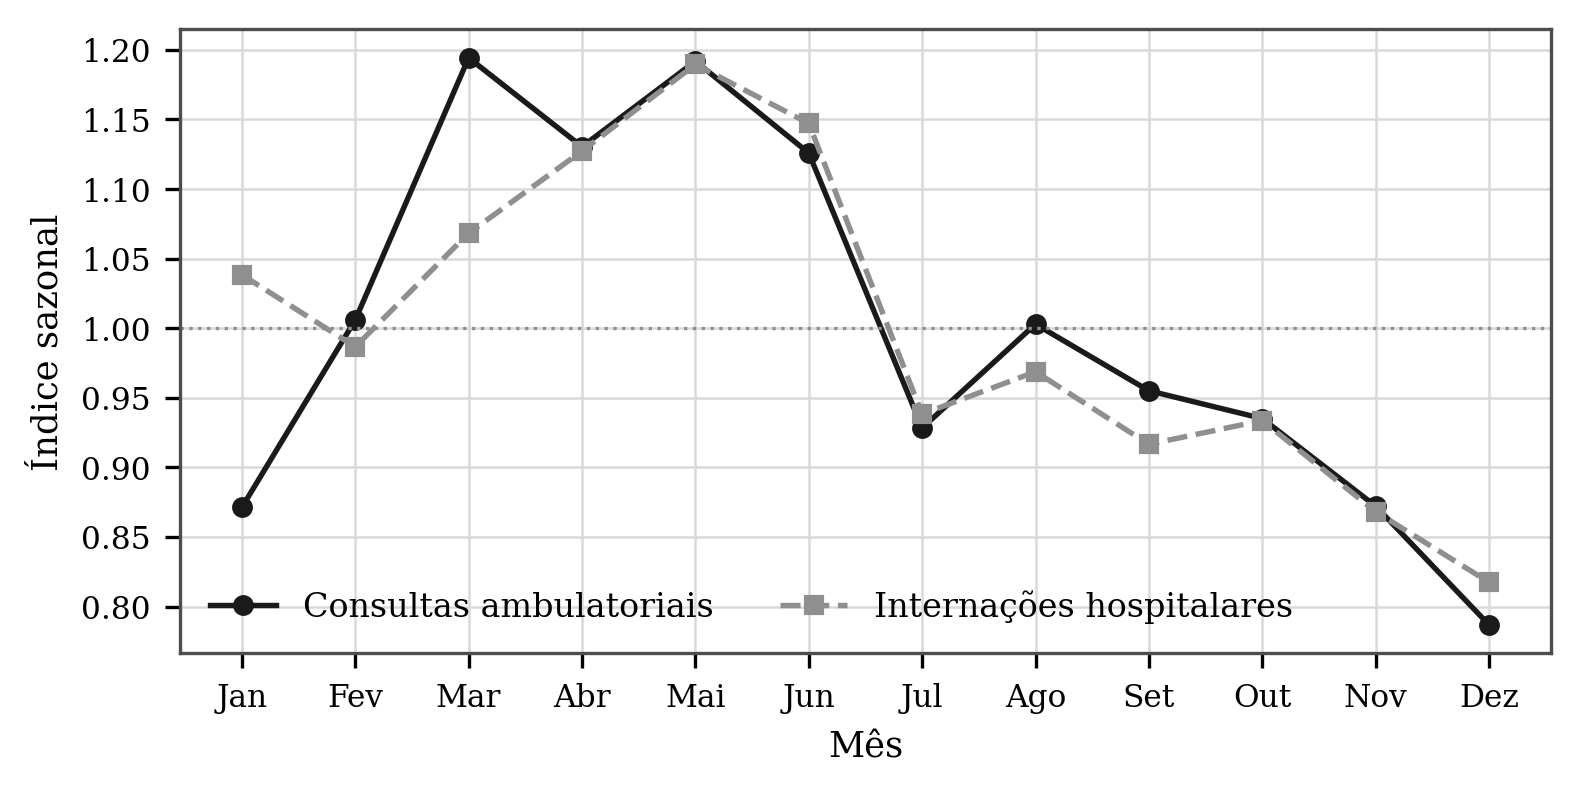
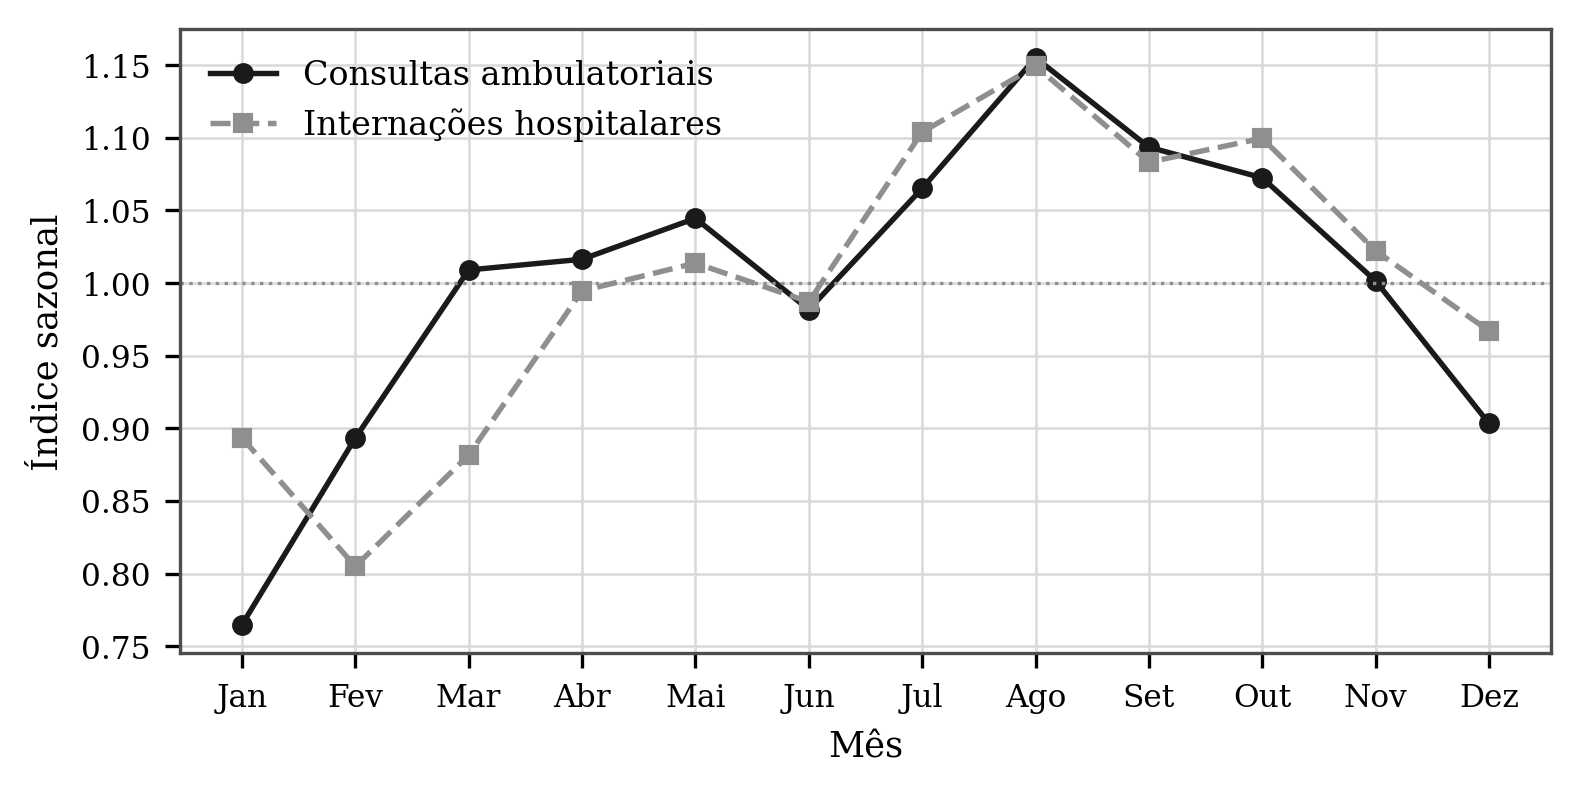
Corrige o índice sazonal, aplica a correção de Holm e refaz as telas
O índice somava 2026, que só vai até junho; passa a usar só 2023 a 2025. A comparação pareada ganha a coluna p_holm. Corrige o total de internações de 2023 (6.062).

Changed region(s): [[0.031, 0.0302, 0.9918, 0.8463]]

diff --git a/src/figuras.py b/src/figuras.py
@@ -115,8 +115,17 @@ def figura_1() -> None:
 # --------------------------------------------------------------------------
 
 def figura_2() -> None:
-    sz = atend.groupby(["tipo", atend["periodo"].dt.month]).size().unstack(0)
-    sz = sz / sz.mean()
+    # Só anos completos: 2026 vai até junho, e incluí-lo daria a jan-jun um ano a
+    # mais do que a jul-dez, inflando o primeiro semestre. A razão é calculada
+    # dentro de cada ano e depois promediada, para o crescimento entre anos não
+    # entrar no índice.
+    ano = atend["periodo"].dt.year
+    completo = atend[ano <= 2025]
+    mensal = completo.groupby(
+        ["tipo", completo["periodo"].dt.year.rename("ano"), completo["periodo"].dt.month.rename("mes")]
+    ).size().unstack("mes")
+    sz = mensal.div(mensal.mean(axis=1), axis=0).groupby("tipo").mean().T
+    print(sz.round(2).T.to_string())
     fig, ax = plt.subplots(figsize=(LARGURA, 2.7))
     for i, tipo in enumerate(["consulta", "internacao"]):
         ax.plot(sz.index, sz[tipo], linestyle=TRACOS[i], marker=MARCADORES[i],
@@ -127,7 +136,7 @@ def figura_2() -> None:
                         "Jul", "Ago", "Set", "Out", "Nov", "Dez"])
     ax.set_ylabel("Índice sazonal")
     ax.set_xlabel("Mês")
-    ax.legend(loc="lower left", ncol=2)
+    ax.legend(loc="upper left")
     salva(fig, "fig02-sazonalidade")
 
 

diff --git a/src/validacao.py b/src/validacao.py
@@ -168,7 +168,24 @@ def comparacoes(a: pd.DataFrame) -> pd.DataFrame:
                 "A_melhor_em_%": 100 * (d["d"] < 0).mean(),
                 "p_wilcoxon": p_wil,
             })
-    return pd.DataFrame(linhas)
+    return ajusta_holm(pd.DataFrame(linhas))
+
+
+def ajusta_holm(comp: pd.DataFrame) -> pd.DataFrame:
+    """Valores de p de Wilcoxon ajustados por Holm, dentro de cada base.
+
+    São sete comparações por base; sem ajuste, a chance de alguma parecer
+    significativa por acaso cresce com o número de testes.
+    """
+    comp = comp.copy()
+    comp["p_holm"] = np.nan
+    for _, g in comp.groupby("tipo"):
+        ordem = g["p_wilcoxon"].sort_values()
+        m, maior = len(ordem), 0.0
+        for i, (idx, p) in enumerate(ordem.items()):
+            maior = max(maior, min(1.0, (m - i) * p))
+            comp.loc[idx, "p_holm"] = maior
+    return comp
 
 
 # --------------------------------------------------------------------------

diff --git a/docs/01-entendimento-dos-dados.md b/docs/01-entendimento-dos-dados.md
@@ -21,7 +21,7 @@ internações : data_internacao; especialidade; município; idade; sexo
 
 | Período de referência | Consultas | Internações |
 |---|---:|---:|
-| Ano de 2023 | 212.193 | 6.067 |
+| Ano de 2023 | 212.193 | 6.062 |
 | jan–mar 2024 | 49.727 | 1.642 |
 | abr–jun 2024 | 57.914 | 1.783 |
 | jul–set 2024 | 61.368 | 2.110 |
